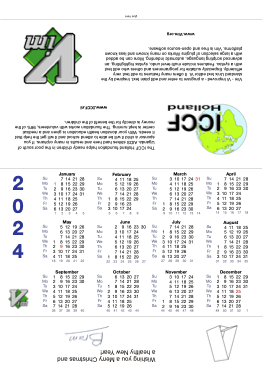
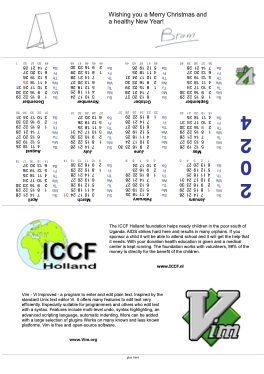
feat: update README and screenshot

diff --git a/README.md b/README.md
@@ -1,5 +1,7 @@
 # Vim desktop Calendar
 
+<img alt="printable vim desctop calendar 2024" src="./screenshot.png" align="right" width="200" />
+
 > for https://moolenaar.net/#Calendar
 
 A desktop calendar for 2024, made from one sheet of paper.<br/>
@@ -7,4 +9,7 @@ After folding, one side contains a useful 12-month calendar.<br/>
 On the other side there is brief information about ICCF-Holland,<br/>
 and Vim. All files are PDF format, about 628 Kbyte.
 
-[![printable vim calendar 2024](./screenshot.png)](https://github.com/hotoo/printable-vim-calendar/blob/main/2024/2024_en_a4.pdf)
+**language - paper size**<br/>
+[English - A4](https://github.com/hotoo/printable-vim-calendar/blob/main/2024/2024_en_a4.pdf)<br/>
+English - Letter<br/>
+Dutch - A4
